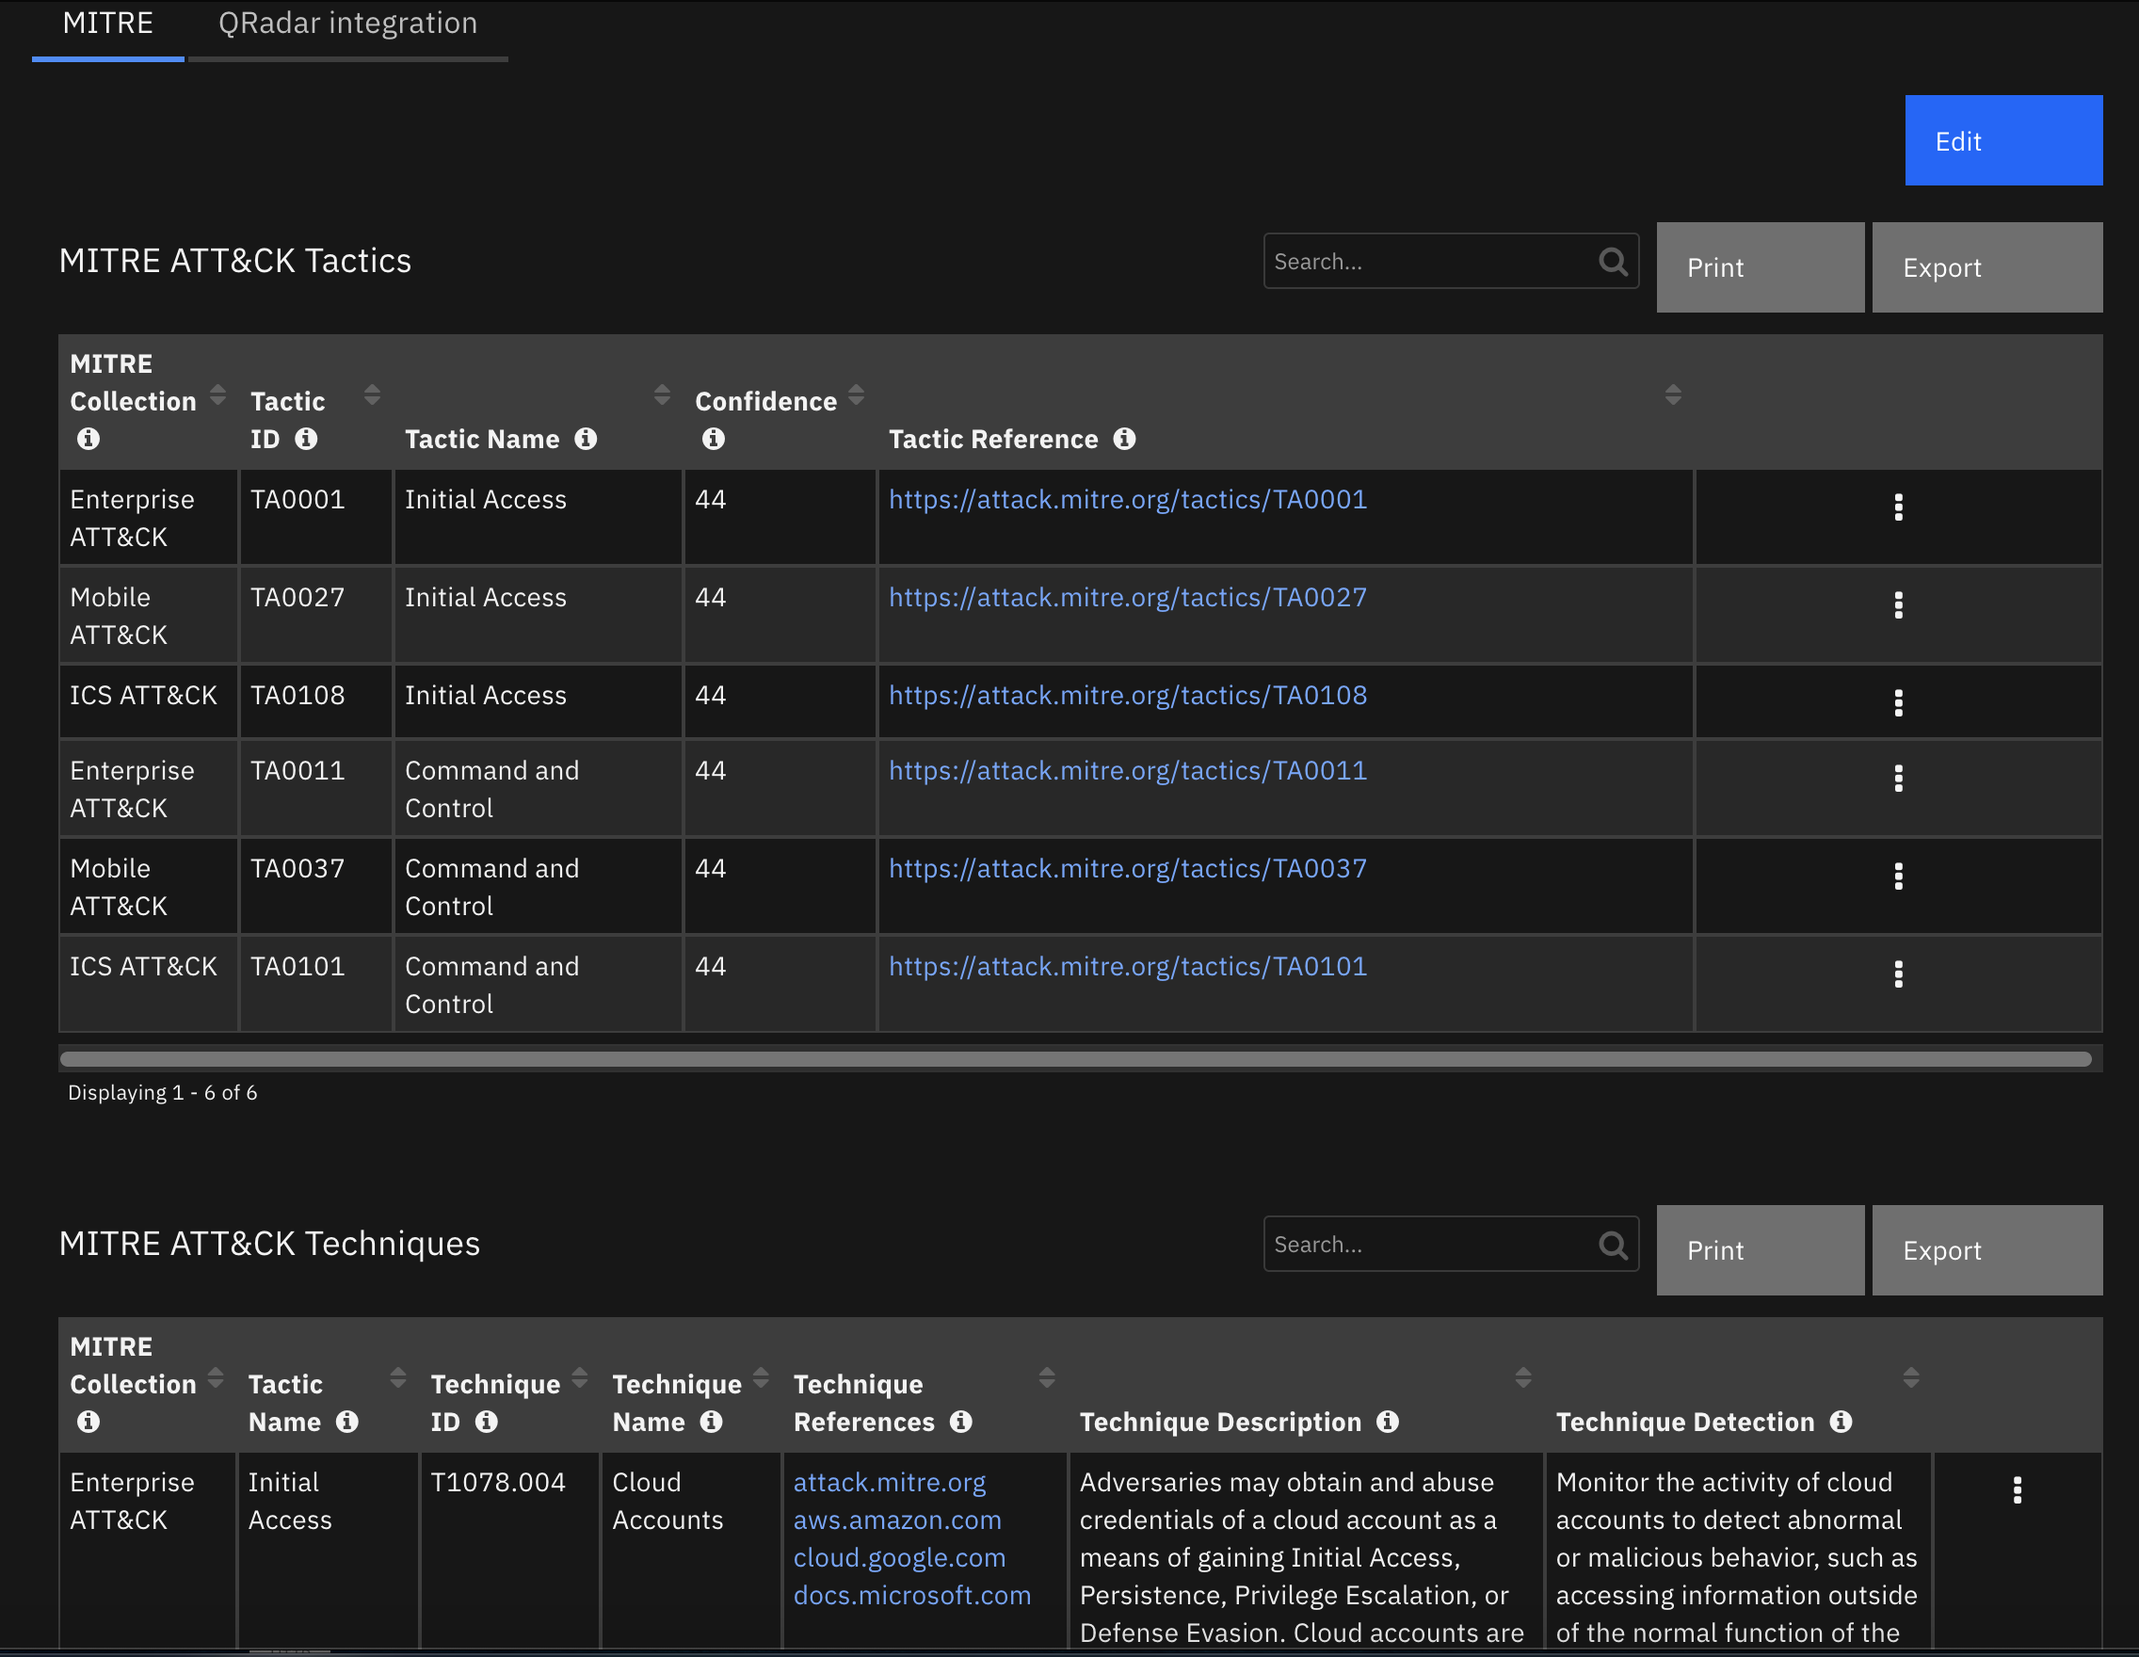
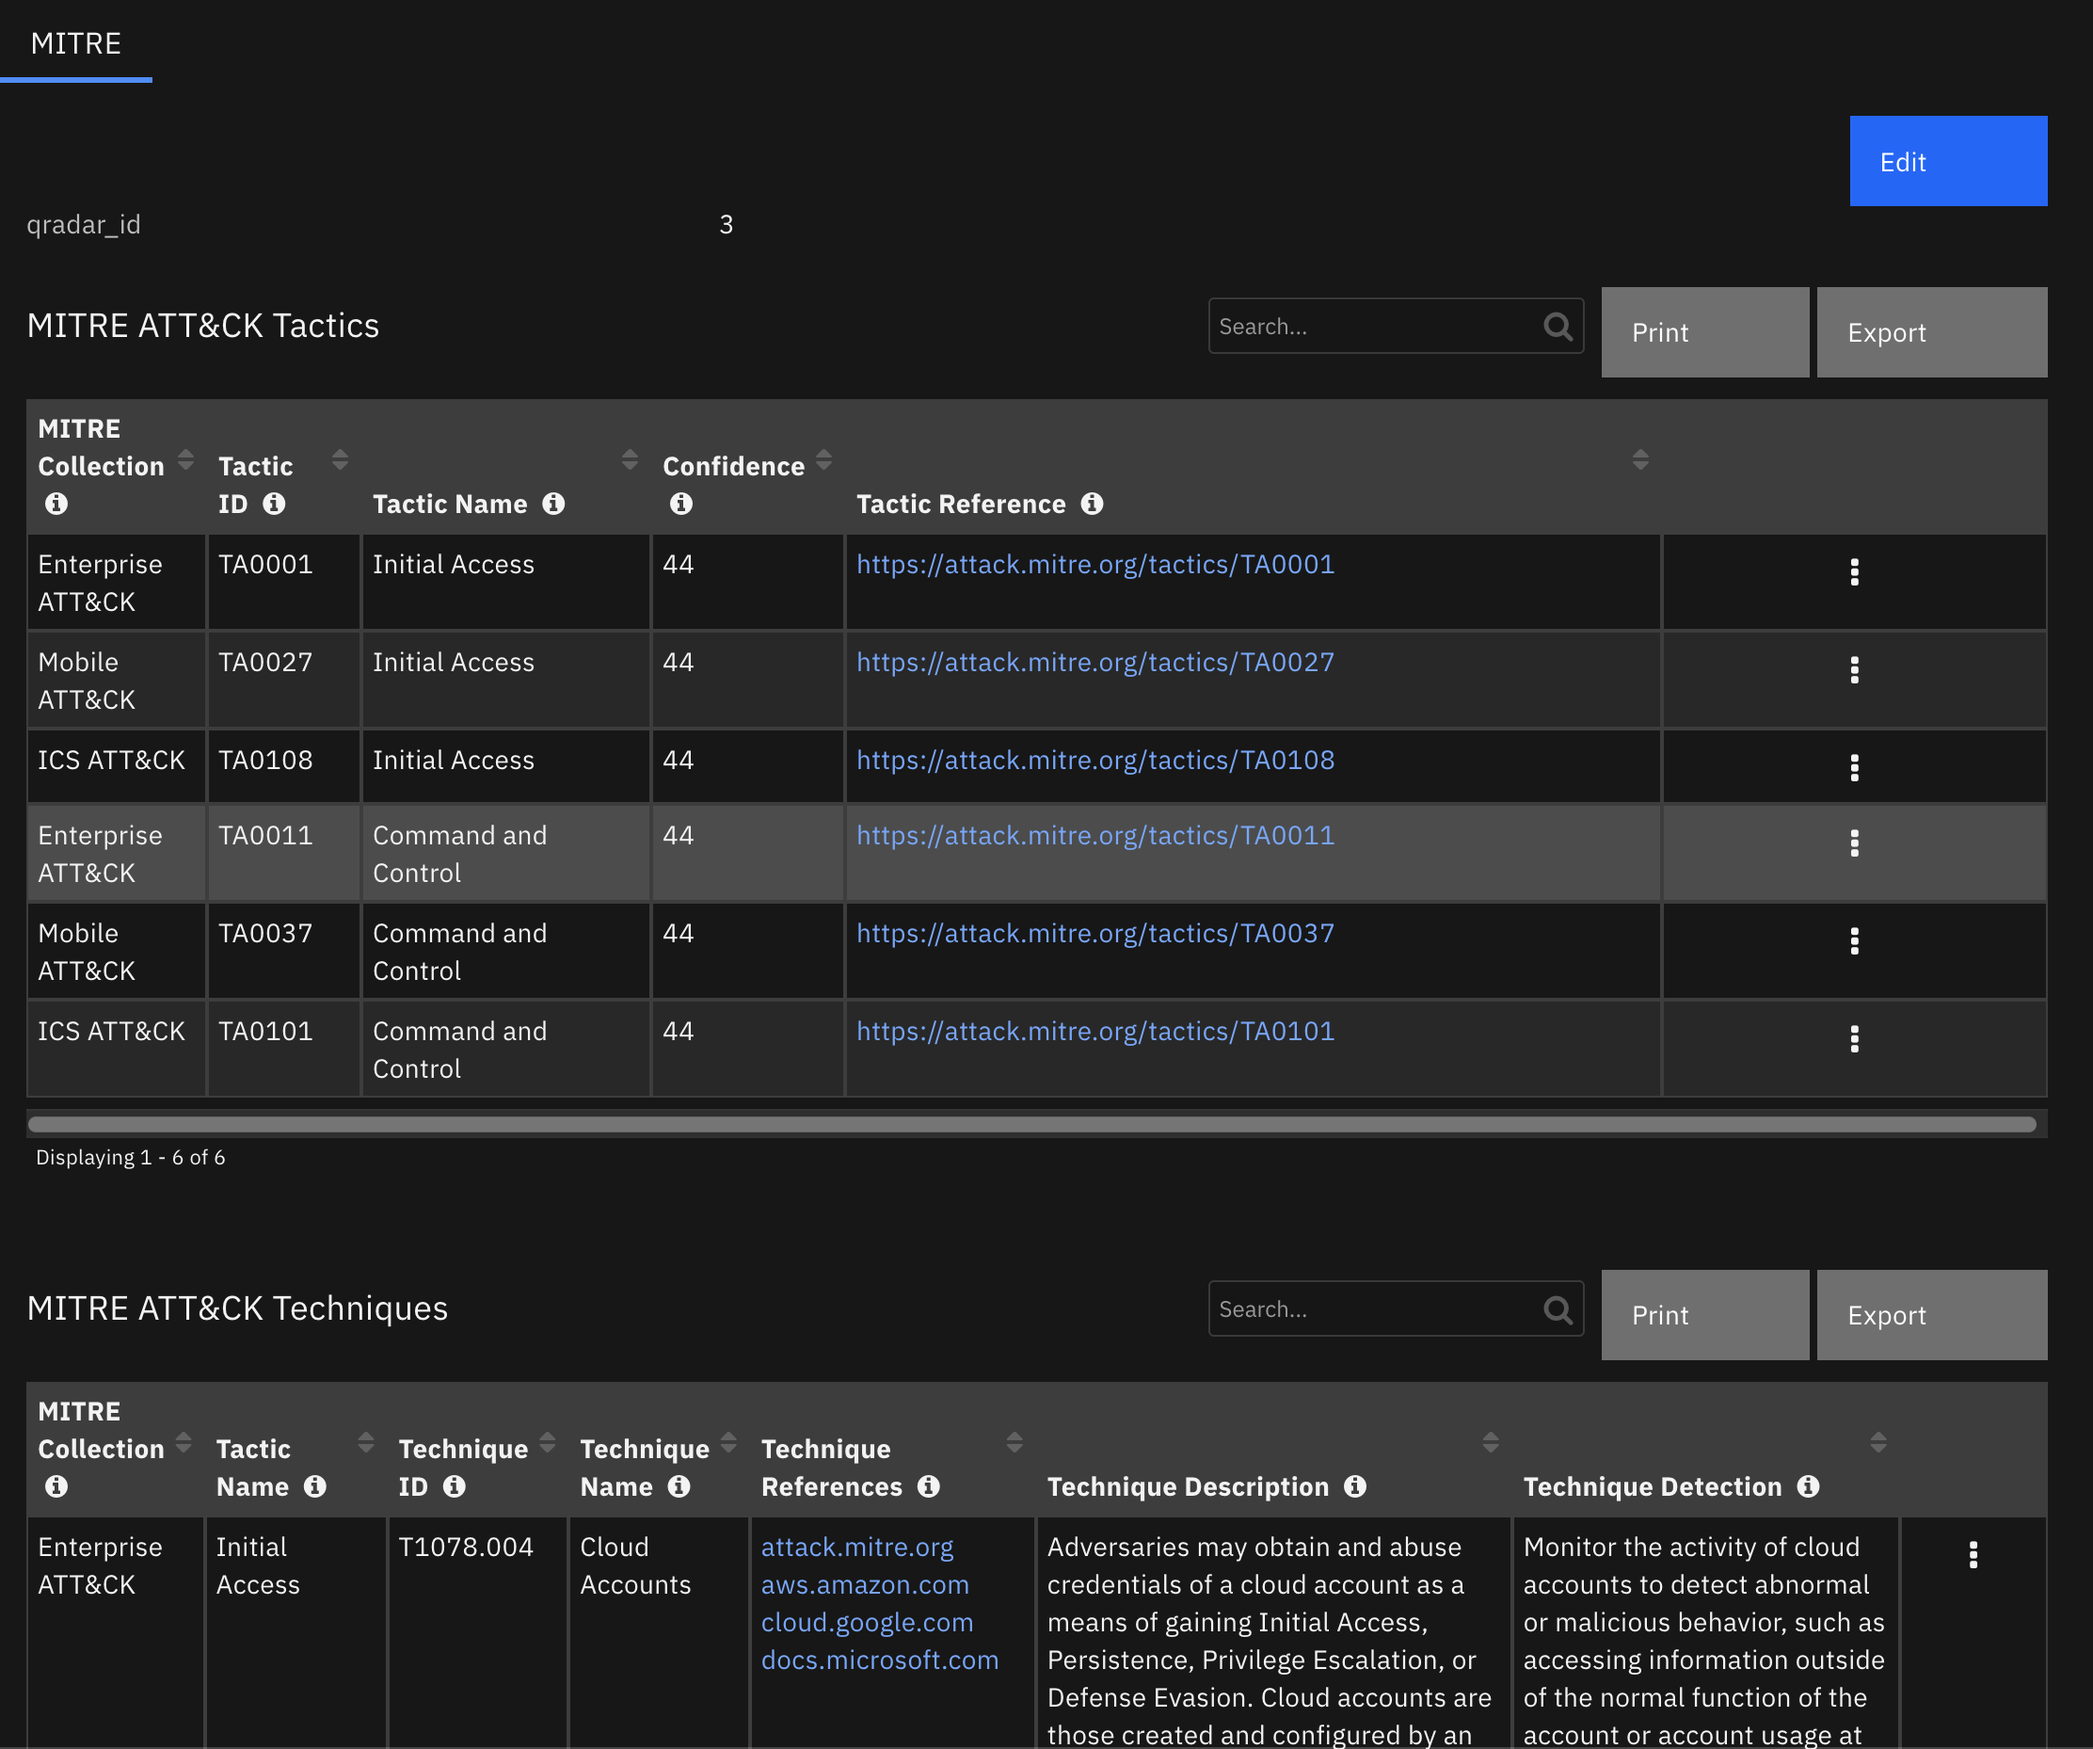
INT-5195 {res_qraw_mitre} update docs, script and .res file [build-dev-app]

diff --git a/res_qraw_mitre/README.md b/res_qraw_mitre/README.md
@@ -21,7 +21,7 @@ The workflows in this package depend on the following integration packages
 ![Installed Screenshot](./screenshots/3-apps-installed.png)
 
 ## Import
-First of all, ensure that the above integration packages have been installed.
+First ensure that the above integration packages have been installed.
 Download the res_qraw_mitre package. Unzip it if necessary(tar -xvf res_qraw_mitre.tar). 
 In the QRadar SOAR UI, go to Administrator Settings->Organization->Migrate Settings->Import->Import Settings 
 and select the qraw_mitres.res file downloaded above.
@@ -39,15 +39,15 @@ and "MITRE Tactic Information"
 is a function from the MITRE integration. The data flow is shown below
 ![Dataflow1](./screenshots/dataflow1.png)
 Here, a user starts from an incident with a QRadar offense id. In the following example, 
-the incident is escalated from QRadar offense 23. 
+the incident is escalated from QRadar offense 3. 
 ![Offense Analysis](./screenshots/offense_analysis.png)
 Note for convenience, a tab was created to hold all the related information here. To do analysis for the related offense, select 
 Actions->"QRadar Advisor Offense Analysis with MITRE", to start this workflow. The first function, "QRadar 
 Advisor Offense Analysis", is called to get 
 the analysis and insights of the offense from QRadar Advisor. The insights contains MITRE ATT&CK 
 tactic information, shown in the "MITRE ATT&CK of Incident" data table. In this example, 
-QRadar Advisor returns a tactic called "Command and Control", together with a confidence value 
-of 60 (over 100). 
+QRadar Advisor returns a tactic called "Initial Access", together with a confidence value 
+of 44 (out of 100). 
 
 With this information, the second function "MITRE Tactic Information" is called. This function 
 retrieves the following information from the MITRE STIX TAXII server: 
@@ -74,14 +74,14 @@ workflow from the QRadar integration 2.0. These two workflows can make a complet
 This use case starts with an artifact. The dataflow is shown below. 
 ![Dataflow2](./screenshots/dataflow2.png)
 
-In this example, an IP address (192.168.0.155) was added to an incident as an
+In this example, an IP address (193.184.16.214) was added to an incident as an
 artifact. The user can then select the rule, "Find All QRadar Reference Sets". 
 It is a rule included in QRadar integration 2.0.
 ![Artifact](./screenshots/artifact.png)
 The result is shown in the "QRadar Reference Set" data table. Note that the "Source" column (if not empty)shows
 the QRadar rule that added this IP into the reference set. In this example, a rule called "RF Risklist Source Log"
 monitors source IPs that contact external malicious sites, and log the source IPs into a Reference Set called 
-"RF Risklist Source". This IP address (192.168.0.155) is in that Reference Set.
+"RF Risklist Source". This IP address (193.184.16.214) is in that Reference Set.
 
 Once the "QRadar Reference Set" data table is populated with data, user can select 
 "Map rule to MITRE tactic".
@@ -100,13 +100,11 @@ information is shown in the "MITRE ATT&CK Techniques" data table. From here, the
 tasks for selected techniques.
 
 ## Uninstall
-Manually delete the followings:
+Manually delete the following:
 1. Rules
 - "Map rule to MITRE tactic"
 - "QRadar Advisor Offense Analysis with MITRE"
-2. Data tables
-- MITRE ATT&CK of Artifact
-3. Workflows
+2. Workflows
 - Example of QRadar Advisor Offense Analysis with MITRE
 - Example of mapping QRadar rule to tactic 
 
